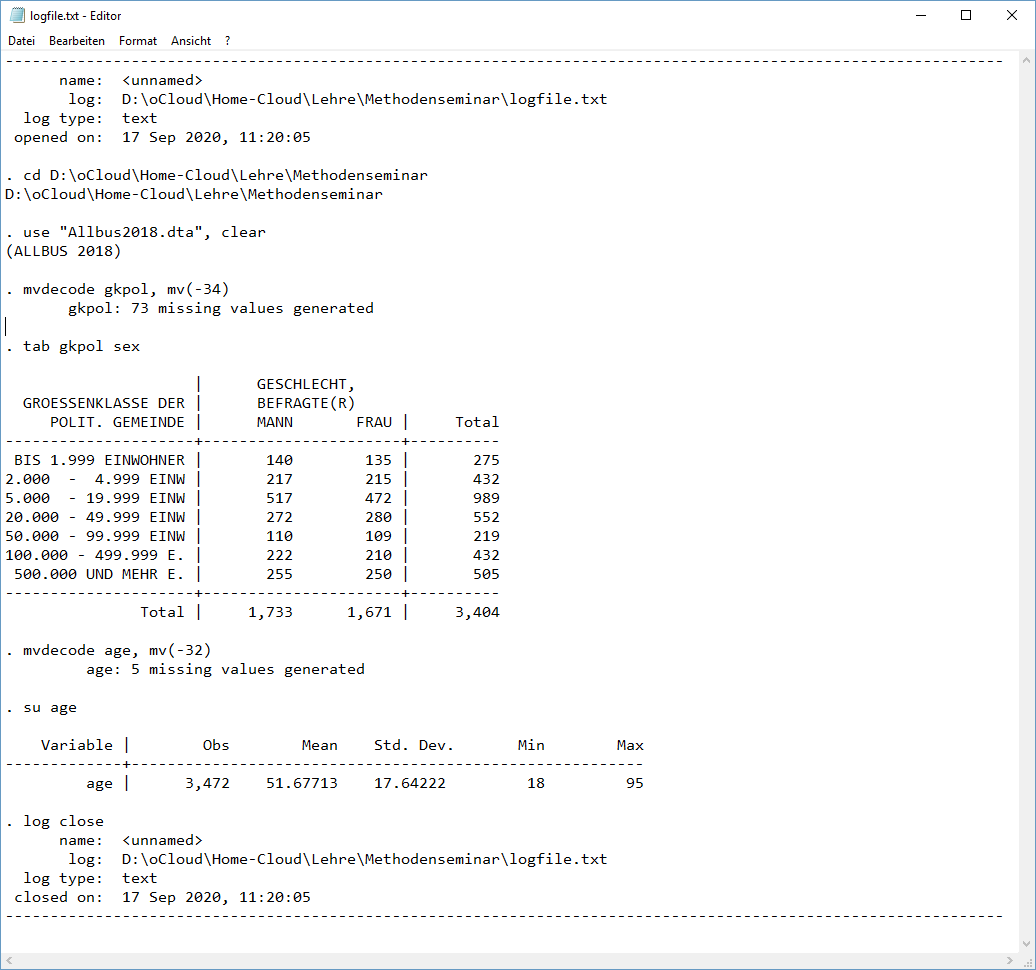
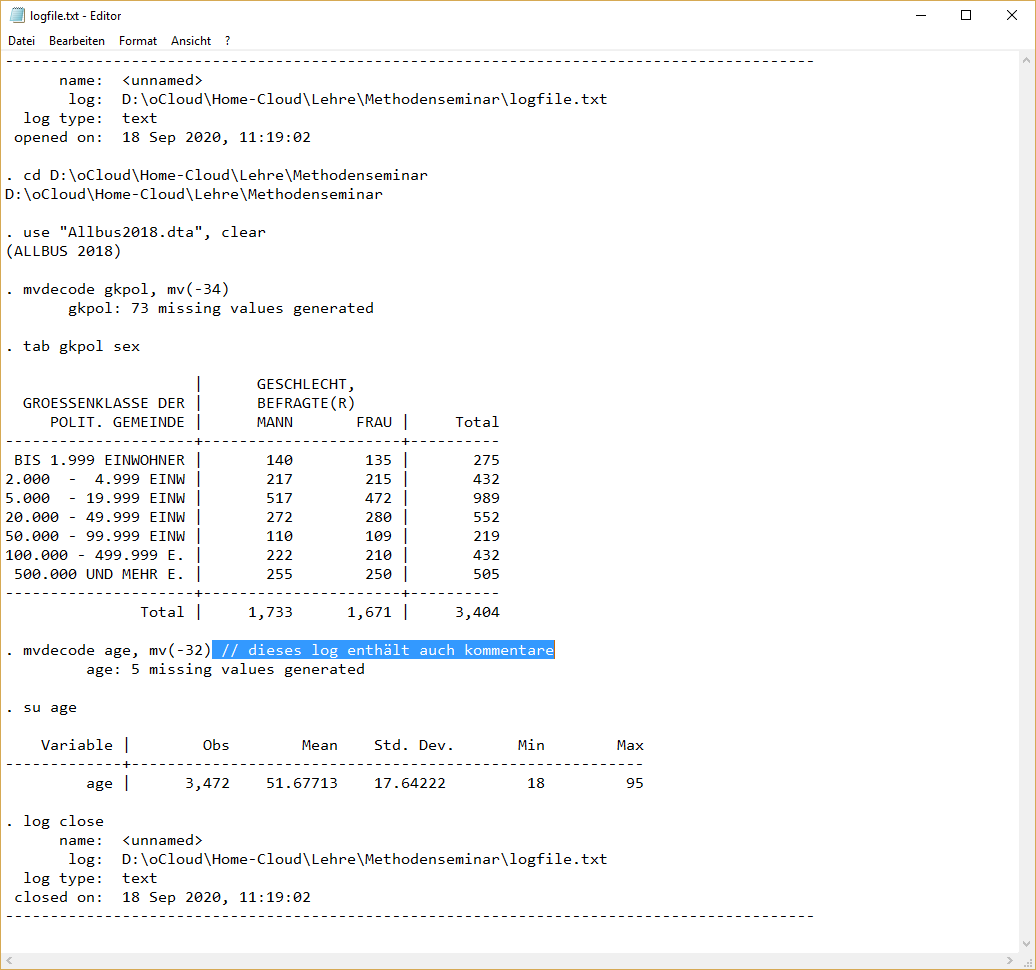
kap 10

diff --git a/docs/export1.html b/docs/export1.html
@@ -407,7 +407,7 @@ code span.wa { color: #60a0b0; font-weight: bold; font-style: italic; } /* Warni
 <span id="cb1-3"><a href="export1.html#cb1-3"></a><span class="kw">use</span> <span class="st">&quot;Allbus2018.dta&quot;</span>, <span class="kw">clear</span></span>
 <span id="cb1-4"><a href="export1.html#cb1-4"></a><span class="kw">mvdecode</span> gkpol, mv(-34)</span>
 <span id="cb1-5"><a href="export1.html#cb1-5"></a><span class="kw">tab</span> gkpol sex</span>
-<span id="cb1-6"><a href="export1.html#cb1-6"></a><span class="kw">mvdecode</span> age, mv(-32)</span>
+<span id="cb1-6"><a href="export1.html#cb1-6"></a><span class="kw">mvdecode</span> age, mv(-32) <span class="co">// dieses log enthält auch kommentare</span></span>
 <span id="cb1-7"><a href="export1.html#cb1-7"></a>su age</span>
 <span id="cb1-8"><a href="export1.html#cb1-8"></a><span class="fu">log</span> <span class="kw">close</span></span></code></pre></div>
 <p><img src="10_logfile.png" width="100%" height="100%" style="display: block; margin: auto;" /></p>
